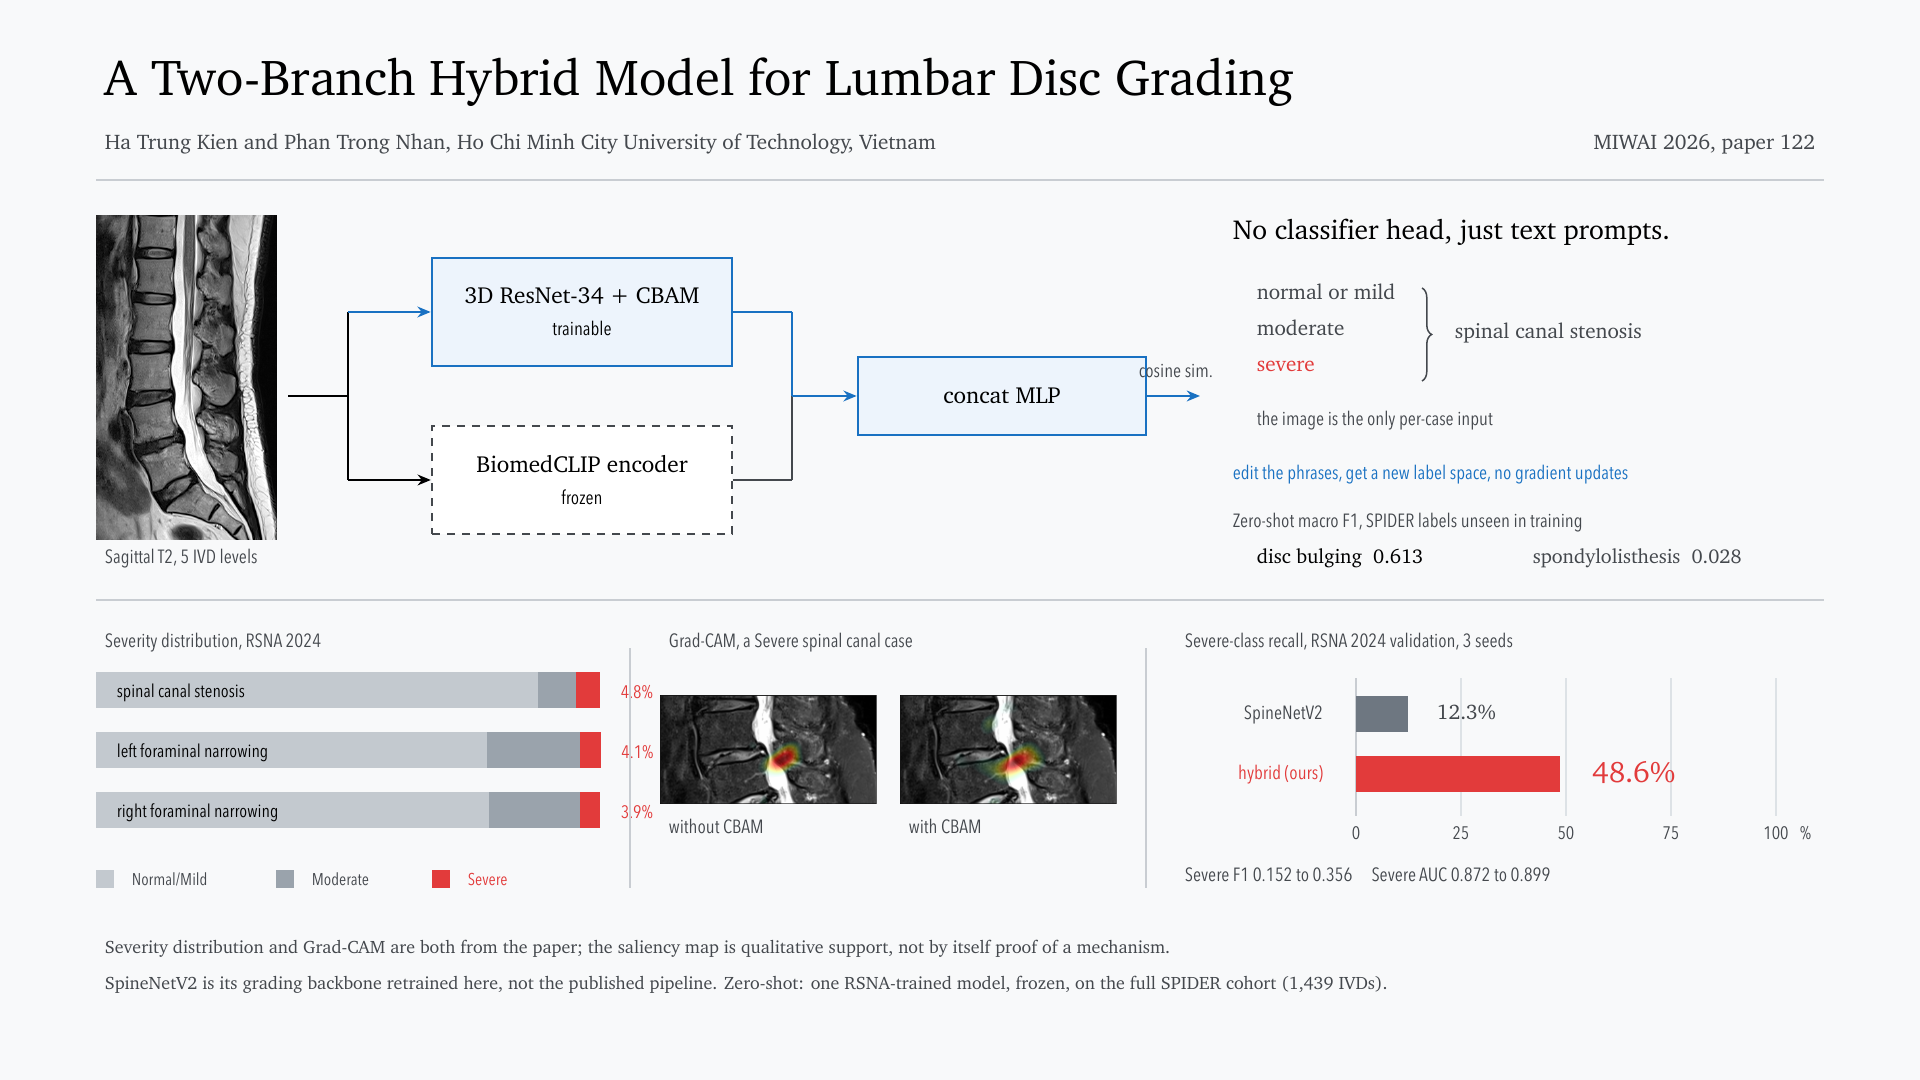
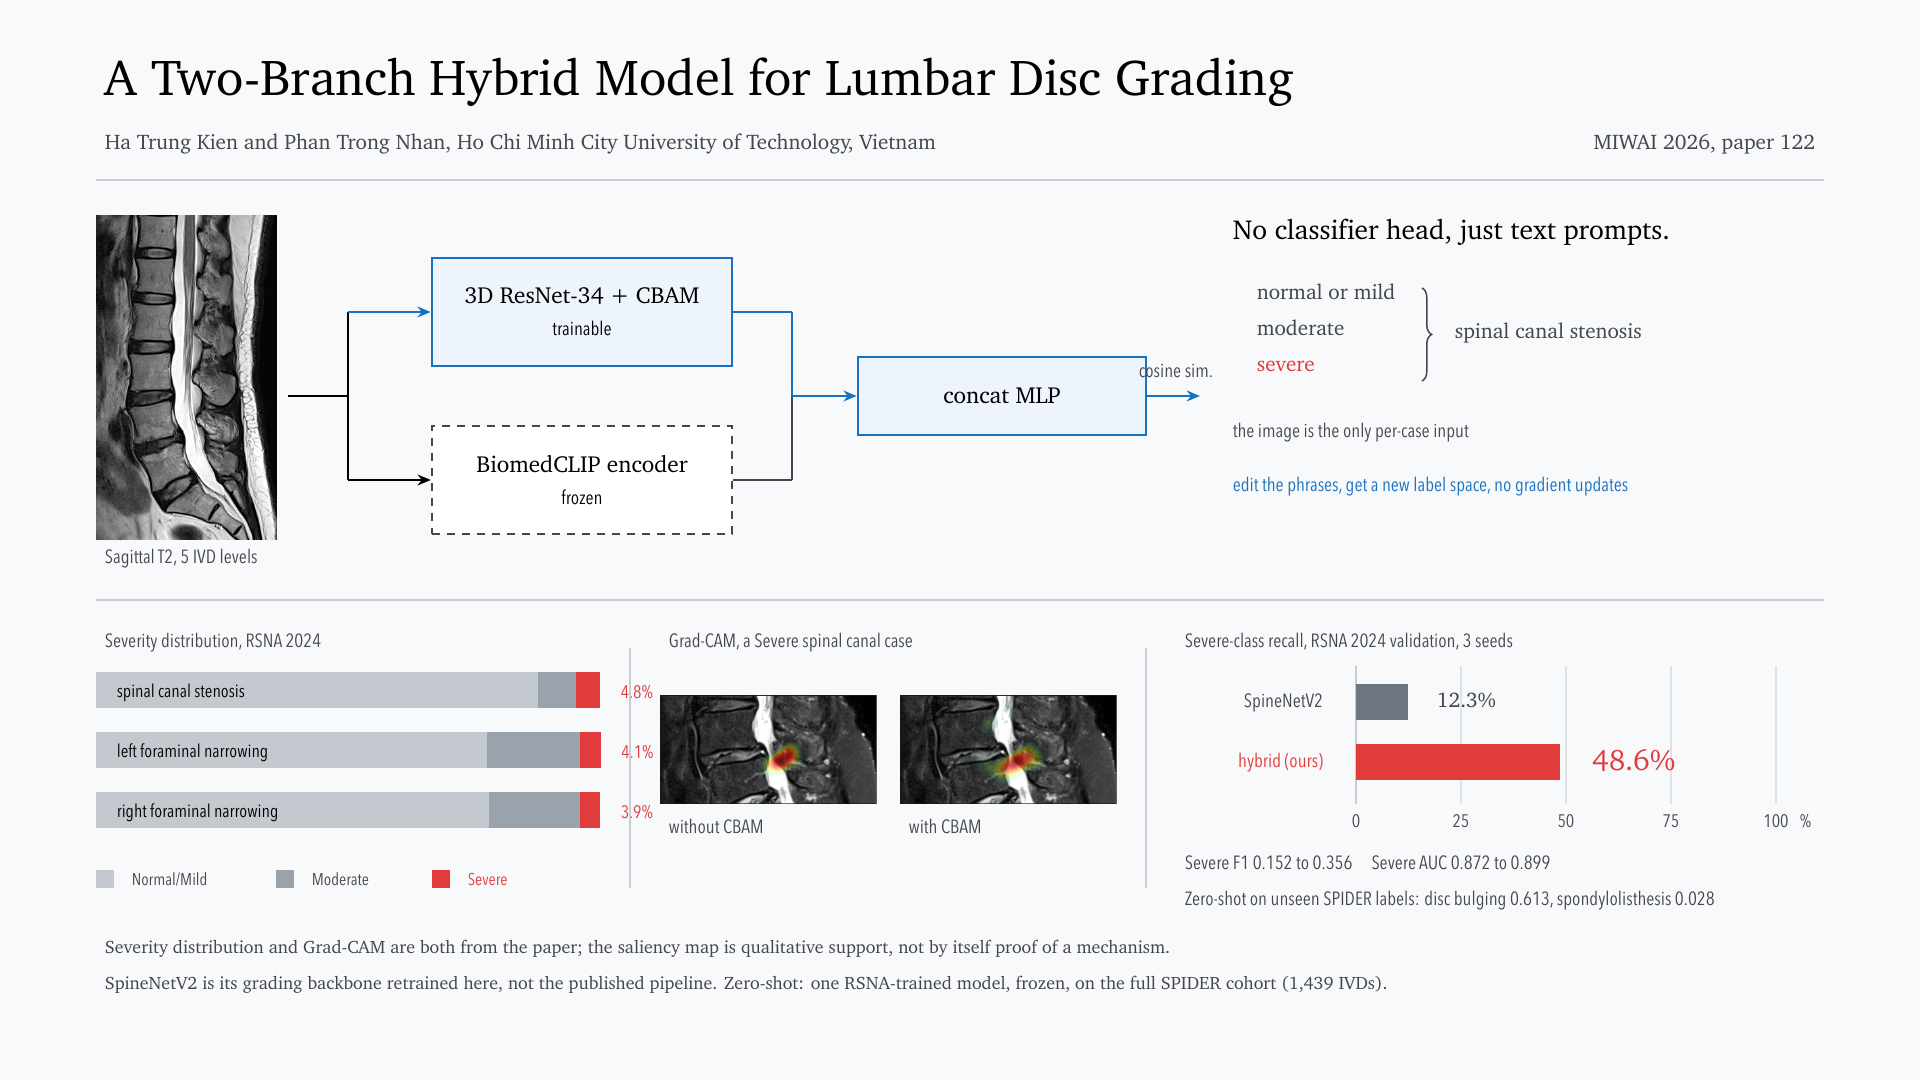
miwai(async): the prompt block was explaining and reporting at once
It carried the mechanism, two notes about the mechanism, a results heading and
a row of zero-shot numbers, all at roughly the same weight, so four unlike
things stacked into what read as a pile of footnotes.

The numbers were also in the wrong band. The page is method on top, evidence
below, and a zero-shot F1 is evidence. They now sit under the recall chart with
Severe F1 and AUC, which puts every number on the page in one place and leaves
the top block doing one job: the classifier is a set of prompts, here they are,
and editing them costs nothing.

That thins the block by two lines and by a colour.

diff --git a/paper/camera_ready/miwai_async/infographic_v3.tex b/paper/camera_ready/miwai_async/infographic_v3.tex
@@ -136,14 +136,10 @@
       decoration={brace, amplitude=1.6mm, mirror}] (237,116.5) -- (237,132);
 \node[anchor=base west, text=ink70, font=\fontsize{10}{13}\selectfont] at (241,123.5)
      {spinal canal stenosis};
-\node[anchor=base west, text=ink70, font=\cond\fontsize{9}{11}\selectfont] at (208,109)
+\node[anchor=base west, text=ink70, font=\cond\fontsize{9}{11}\selectfont] at (204,107)
      {the image is the only per-case input};
 \node[anchor=base west, text=trained, font=\cond\fontsize{9}{11}\selectfont]
-     at (204,100) {edit the phrases, get a new label space, no gradient updates};
-\node[anchor=base west, text=ink70, font=\cond\fontsize{9}{11}\selectfont]
-     at (204,92) {Zero-shot macro F1, SPIDER labels unseen in training};
-\node[anchor=base west, font=\fontsize{9.5}{12}\selectfont] at (208,86) {disc bulging \ 0.613};
-\node[anchor=base west, text=ink70, font=\fontsize{9.5}{12}\selectfont] at (254,86) {spondylolisthesis \ 0.028};
+     at (204,98) {edit the phrases, get a new label space, no gradient updates};
 
 \draw[rule, line width=0.2mm] (16,80) -- (304,80);
 
@@ -193,19 +189,21 @@
 
 \node[anchor=base west, text=ink70, font=\cond\fontsize{9}{11}\selectfont]
      at (196,72) {Severe-class recall, RSNA 2024 validation, 3 seeds};
-\foreach \x in {243.5,261,278.5,296} \draw[grid, line width=0.2mm] (\x,44) -- (\x,67);
-\draw[rule, line width=0.3mm] (226,44) -- (226,67);
-\fill[bar2]   (226,58) rectangle ++(8.6,6);
-\fill[signal] (226,48) rectangle ++(34.0,6);
-\node[anchor=base east, text=ink70, font=\cond\fontsize{9}{11}\selectfont] at (222,60) {SpineNetV2};
-\node[anchor=base east, text=signal, font=\cond\fontsize{9}{11}\selectfont] at (222,50) {hybrid (ours)};
-\node[anchor=base west, text=ink70, font=\fontsize{10}{12}\selectfont] at (238,60) {12.3\%};
-\node[anchor=base west, text=signal, font=\fontsize{14}{16}\selectfont] at (264,49.5) {48.6\%};
+\foreach \x in {243.5,261,278.5,296} \draw[grid, line width=0.2mm] (\x,46) -- (\x,69);
+\draw[rule, line width=0.3mm] (226,46) -- (226,69);
+\fill[bar2]   (226,60) rectangle ++(8.6,6);
+\fill[signal] (226,50) rectangle ++(34.0,6);
+\node[anchor=base east, text=ink70, font=\cond\fontsize{9}{11}\selectfont] at (222,62) {SpineNetV2};
+\node[anchor=base east, text=signal, font=\cond\fontsize{9}{11}\selectfont] at (222,52) {hybrid (ours)};
+\node[anchor=base west, text=ink70, font=\fontsize{10}{12}\selectfont] at (238,62) {12.3\%};
+\node[anchor=base west, text=signal, font=\fontsize{14}{16}\selectfont] at (264,51.5) {48.6\%};
 \foreach \x/\lab in {226/0,243.5/25,261/50,278.5/75,296/100} {
-  \node[anchor=base, text=ink70, font=\cond\fontsize{8.5}{10}\selectfont] at (\x,40) {\lab};}
-\node[anchor=base west, text=ink70, font=\cond\fontsize{8.5}{10}\selectfont] at (298.5,40) {\%};
-\node[anchor=base west, text=ink70, font=\cond\fontsize{9}{11}\selectfont] at (196,33)
+  \node[anchor=base, text=ink70, font=\cond\fontsize{8.5}{10}\selectfont] at (\x,42) {\lab};}
+\node[anchor=base west, text=ink70, font=\cond\fontsize{8.5}{10}\selectfont] at (298.5,42) {\%};
+\node[anchor=base west, text=ink70, font=\cond\fontsize{9}{11}\selectfont] at (196,35)
      {Severe F1 0.152 to 0.356\quad Severe AUC 0.872 to 0.899};
+\node[anchor=base west, text=ink70, font=\cond\fontsize{9}{11}\selectfont] at (196,29)
+     {Zero-shot on unseen SPIDER labels: disc bulging 0.613, spondylolisthesis 0.028};
 
 %% ------------------------------------------------------------- provenance
 \node[anchor=base west, text=ink70, font=\fontsize{8.5}{11}\selectfont]
